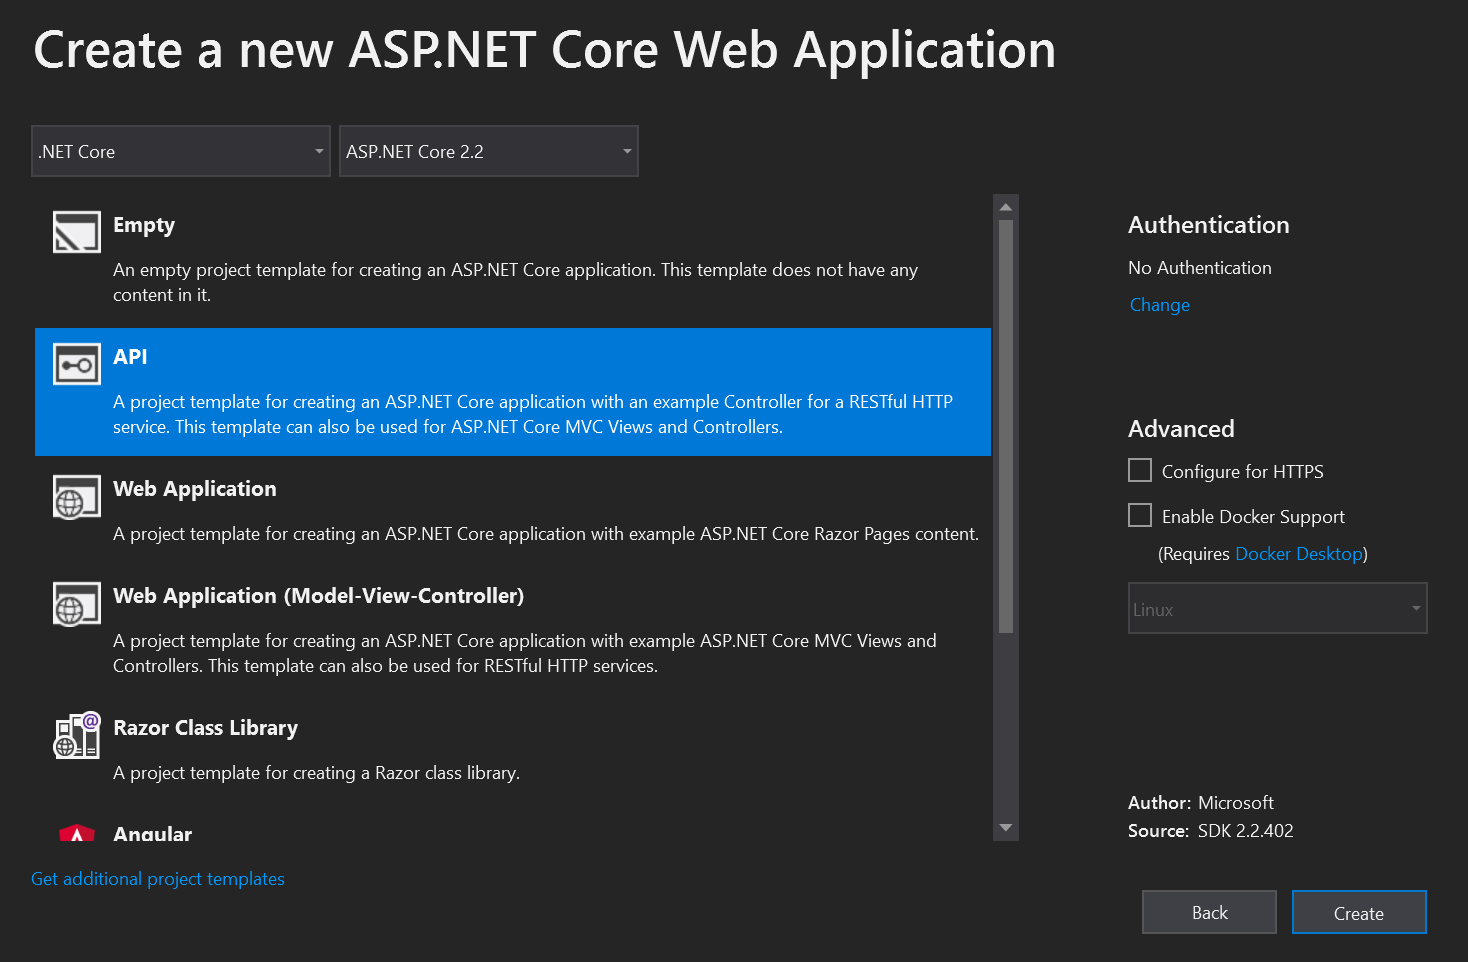
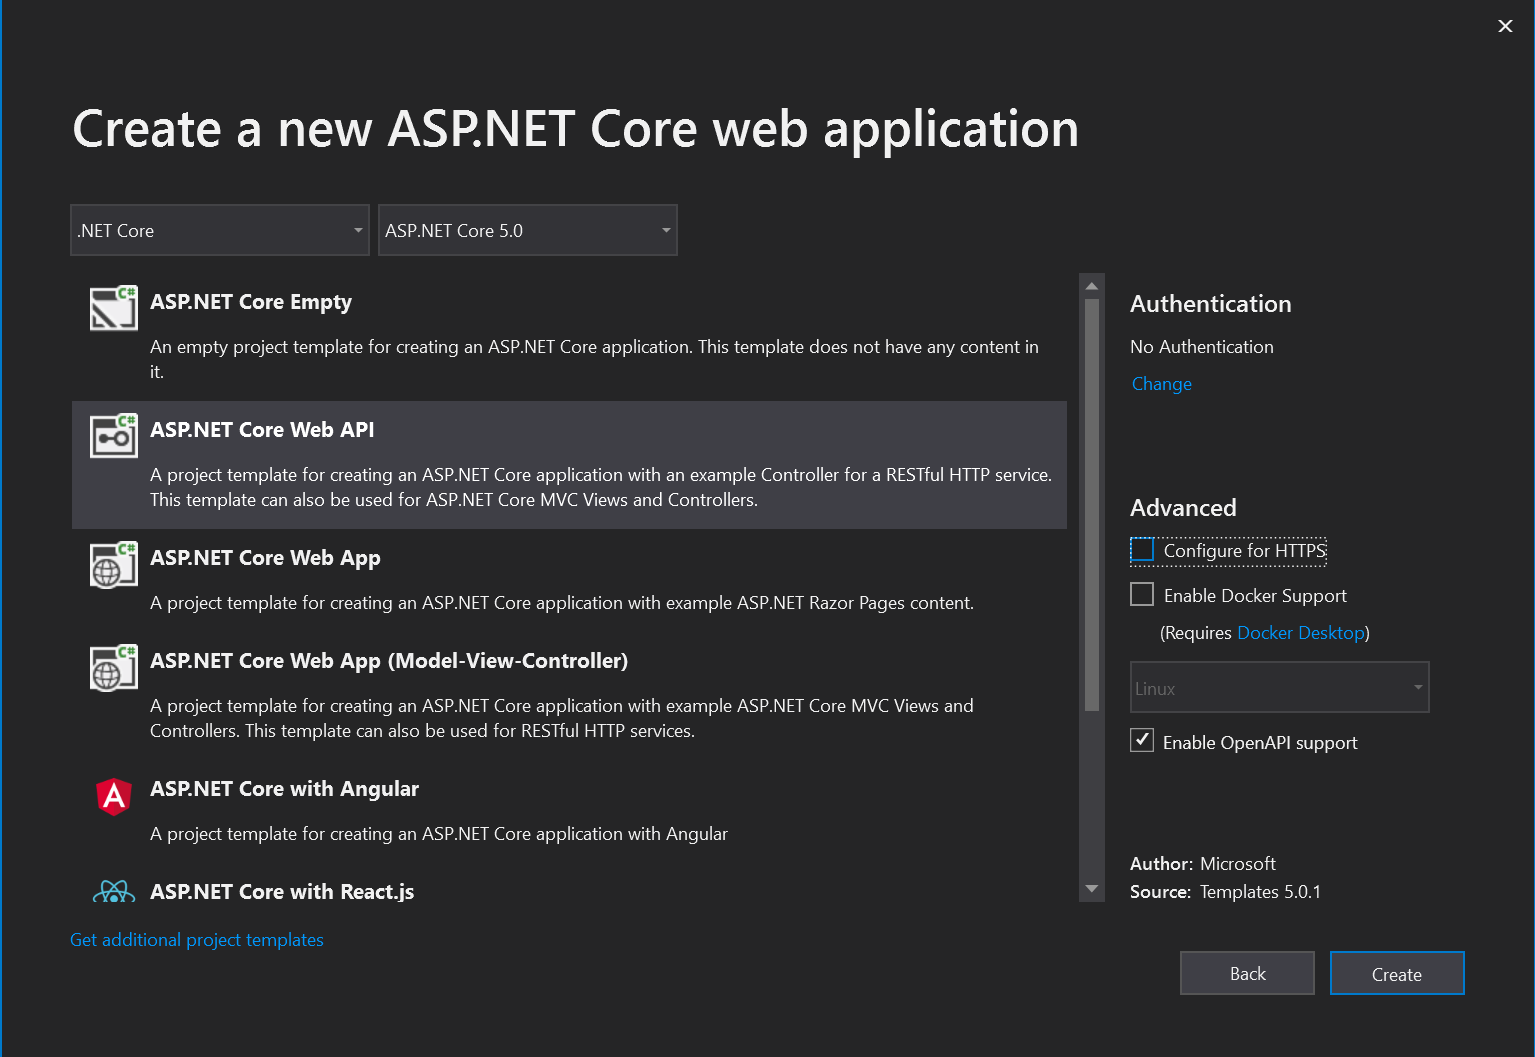
update quick start to mention .NET 5

Changed region(s): [[0.0, 0.0312, 0.9809, 0.9979]]

diff --git a/docs/quick/overview.md b/docs/quick/overview.md
@@ -30,35 +30,31 @@ Here are some good starting points for learning more about GraphQL or ASP.NET MV
 
 [**Comparing GraphQL and REST**](https://blog.apollographql.com/graphql-vs-rest-5d425123e34b) - A helpful comparison by the Apollo Team
 
-[**Getting started with ASP.NET Core MVC**](https://docs.microsoft.com/en-us/aspnet/core/tutorials/first-mvc-app/start-mvc?view=aspnetcore-3.0&tabs=visual-studio) - Scaffolding a ASP.NET Core MVC app from the ground up.
+[**Getting started with ASP.NET Core MVC**](https://docs.microsoft.com/en-us/aspnet/core/tutorials/first-mvc-app/start-mvc?view=aspnetcore-5.0&tabs=visual-studio) - Scaffolding a .NET ASP.NET Core MVC app from the ground up.
 
 ## Key Terms
 
 This documentation uses a number of terms to refer to the various pieces of the library:
 
 ### Schema
-This is the collective set of fields their data types, input arguments etc. that are exposed on an object graph. When you write a graphql query to return data the fields you request, their arguments and their children must all be defined on a schema that graphql will validate your query against.  
+This is the set of data types, their fields, input arguments etc. that are exposed on an object graph. When you write a graphql query to return data the fields you request, their arguments and their children must all be defined on a schema that graphql will validate your query against.  
 
-> In GraphQL ASP.NET the schema is a virtual entity created from your C# code.
+> In GraphQL ASP.NET the schema is generated at runtime directly from your C# code, there is no boilerplate code necessary to define up a schema.
 
 Your schema is "generated" at runtime by analyzing your model classes, controllers and action methods then populating a `GraphSchema` container with the appropriate graph types to map graphql requests to your controllers. 
 
-### Field Resolver 
-In GraphQL terms, a field resolver fulfills the request for data from a schema field. It takes in a set of input arguments and produces a piece of data that is returned to the client. In GraphQL ASP.NET your controller methods are, by in large, your field resolvers.
-
-**_AKA_**: `Action Method`, `Controller Method`
+### Fields & Resolvers
+In GraphQL terms, a field is any requested piece of data (such as an id or  name).  A resolver fulfills the request for data from a schema field. It takes in a set of input arguments and produces a piece of data that is returned to the client. In GraphQL ASP.NET your controller methods act as resolvers for top level fields in any query.
 
 ### Graph Type
 
 A graph type is an entity on your object graph; a droid, a donut, a string, a number etc.  In GraphQL ASP.NET your model classes, interfaces, enums, controllers etc. are compiled into the various graph types required by the runtime.
 
-#### Root Graph Type
-There are three root graph types in GraphQL: Query, Mutation, Subscription. Whenever you make a graphql request, you always specify which query root you are targeting. This documentation will usually refer to all operations as "queries" but this includes mutations as well.
-
-**_AKA_**:  `root operation`, `operation type`
+#### Root Graph Types
+There are three root graph types in GraphQL: Query, Mutation, Subscription. Whenever you make a graphql request, you always specify which query root you are targeting. This documentation will usually refer to all operations as "queries" but this includes mutations and subscriptions as well.
 
 ### Query Document
 This is the raw query string submitted by a client. When GraphQL accepts a query it is converted from a string to an internal document format that is parsed and used to fulfill the request.  
 
-**_AKA_**  `query text`, `query string`.
+> Queries, Mutations and Subscriptions are all types of query documents.
 

diff --git a/docs/quick/quick-start.md b/docs/quick/quick-start.md
@@ -11,9 +11,9 @@ This guide will help you get a GraphQL project up and running so you can start e
 3.  Write some code to create a `Person` model object and a `PersonController` to deliver it.
 4.  Register GraphQL ASP.NET in `Startup.cs`.
 
-This guide uses [Visual Studio 2019](https://visualstudio.microsoft.com/) but the steps are similar for other IDEs, including JetBrains [Rider](https://www.jetbrains.com/rider/).
+This guide uses [Visual Studio 2019](https://visualstudio.microsoft.com/) but the steps are similar for other IDEs, including [JetBrains Rider](https://www.jetbrains.com/rider/).
 
-The goal is to be able to open any GraphQL query tool such as [GraphiQL](https://electronjs.org/apps/graphiql) or [Altair](https://altair.sirmuel.design/), point it at our server and execute this query:
+The goal is to be able to open any GraphQL query tool such as [GraphiQL](https://electronjs.org/apps/graphiql), [Altair](https://altair.sirmuel.design/) or [GraphQL Playground](https://github.com/graphql/graphql-playground), point it at our server and execute this query:
 
 ```javascript
 query {
@@ -50,8 +50,9 @@ From the Visual Studio 2019 start screen:
 1. Choose `Create new Project`
 2. Select `ASP.NET Core Web Application`.
     - Enter your project's name and choose a location.
-3. Choose `API` when prompted to select a project type.
+3. Choose `ASP.NET Core Web API` when prompted to select a project type.
     - GraphQL ASP.NET has no view layer so we can forgo including Razor and other related options.
+    - Here we've chosen .NET 5 as our target, however; GraphQL ASP.NET is a `netstandard 2.0` library and will work with .NET Core 3.1 and 2.1 as well as .NET 4.7+.
 
 ![Create an API Project](assets/quick-start-1-choose-api.png)
 
@@ -118,7 +119,7 @@ namespace GraphQLDemo
 
 In an MVC controller, we'd generate a data object and pass it off to our Razor View for rendering. In GraphQL, we return the object back to GraphQL and let it handle which properties to render to the requestor based on their query.
 
-For an REST endpoint we'd use `[Route("person")]`, `[HttpGet("person")]` or similar attributes to specify the url template and HTTP verb for our action. In GraphQL, we have to specify if the action is a `[Query]` or a `[Mutation]` operation. Here we've chosen to use the special`[QueryRoot]` attribute to indicate that the action is both a query and exists at the top most level of our object graph. See the section on [declaring field paths](../controllers/field-paths) for a complete set of options and recommendations.
+For a REST endpoint we'd use `[Route("person")]`, `[HttpGet("person")]` or similar attributes to specify the url template and HTTP verb for our action. In GraphQL, we have to specify if the action is a `[Query]` or a `[Mutation]` operation. Here we've chosen to use the special`[QueryRoot]` attribute to indicate that the action is both a query and exists at the top most level of our object graph. See the section on [declaring field paths](../controllers/field-paths) for a complete set of options and recommendations.
 
 ## Step 4: Startup.cs
 

diff --git a/docs/controllers/actions.md b/docs/controllers/actions.md
@@ -63,7 +63,7 @@ query {
 </div>
 <br/>
 
-In the above example, it makes sense these these methods would exist on different controllers, `HeroController` and `DroidController`. Unlike with a REST API request, which will usually invokes one action method and returns the data generated, GraphQL will automatically invoke every action method requested and aggregate the results. Each action is executed asynchronously and in isolation**\***. If one fails, the other may not and the results of both the errors generated and the data retrieved would be returned.
+In the above example, it makes sense these these methods would exist on different controllers, `HeroController` and `DroidController`. Unlike with a REST API request, which will usually invokes one action method and returns the data generated, GraphQL will automatically invoke every action method requested and aggregates the results. Each action is executed asynchronously and in isolation**\***. If one fails, the other may not and the results of both the errors generated and the data retrieved would be returned.
 
 The data returned by your action methods then return their requested child fields, those data items to their children and so on. In many cases this is just a selection of the appropriate properties on a model object, but more complex scenarios involving child objects, [type extensions](./type-extensions) or directly executing POCO methods can also occur.
 
@@ -87,9 +87,9 @@ See below for more detail of the [input](./actions#method-parameters) and [retur
 
 ## Declaring An Operation Type
 
-`GraphQL.AspNet.Attributes.QueryAttribute`  
-`GraphQL.AspNet.Attributes.QueryRootAttribute`  
-`GraphQL.AspNet.Attributes.MutationAttribute`  
+`GraphQL.AspNet.Attributes.QueryAttribute`
+`GraphQL.AspNet.Attributes.QueryRootAttribute`
+`GraphQL.AspNet.Attributes.MutationAttribute`
 `GraphQL.AspNet.Attributes.MutationRootAttribute`
 
 These four attributes are used to declare your action methods. Usage of the mutation and query attributes are exactly the same, they differ only in which of the root graph types to place a field reference. Lets look at the most common ways to use them:
@@ -344,7 +344,7 @@ public interface IGraphActionResult
 }
 ```
 
-It accepts the raw field resolution context that you can manipulate as needed. Combine this with any data you supply to your action result when you instantiate it and you have the ability to generate any response type with any data value or any number and type of error messages etc.  
+It accepts the raw field resolution context that you can manipulate as needed. Combine this with any data you supply to your action result when you instantiate it and you have the ability to generate any response type with any data value or any number and type of error messages etc.
 
 ## Method Parameters
 

diff --git a/docs/introduction/what-is-graphql.md b/docs/introduction/what-is-graphql.md
@@ -72,4 +72,4 @@ _`"Can we add one more thing?"`_
 
 Have you ever heard that in a stand-up meeting? Lets say your team is building a website to show a list of all the members of the rebel alliance. The original specs of a REST end point calls for the return of an object in the above example. Then, for the 2nd time this week, the product owner decided to make a change. "Hey, lets add everybody's direct manager's name to their employee card!", Karen said. The project manager sighs audibly, Dave rolls his eyes and now you have to make a code change to return the new field from the endpoint.
 
-With GraphQL the **requestor**, that is the front-end engineer, adds the new field to their query and the data is automatically returned. Since they have to update the UI they are going to be impacted anyways so no additional harm done. From the back-end though, using GraphQL means there is no need for a server update; no change request, additional QA, no PR approvals and most importantly no new deployment. Server-side code tends to be scrutinized a lot more than client-side code and for good reason. The fewer changes we have to make to a production server the better! This is, of course, dependent on how you design your object graph but with a little forward thinking you can greatly minimize the required server changes once you setup your schema.
+With GraphQL the **requestor**, that is the client application, adds the new field to their query and the data is automatically returned. Since they have to update the UI they are going to be impacted anyways so no additional harm done. From the back-end though, using GraphQL means there is no need for a server update; no change request, additional QA, no PR approvals and most importantly no new deployment. Server-side code tends to be scrutinized a lot more than client-side code and for good reason. The fewer changes we have to make to a production server the better! This is, of course, dependent on how you design your object graph but with a little forward thinking you can greatly minimize the required server changes once you setup your schema.

diff --git a/docs/reference/how-it-works.md b/docs/reference/how-it-works.md
@@ -228,6 +228,7 @@ Hopefully we've given you a bit of insight into how the library works under the 
 
     -   Inject your own `IGraphResponseWriter` to serialize your results to XML or CSV.
     -   Build your own `IOperationComplexityCalculator` to intercept and alter how a query plan generates its [complexity values](../execution/malicious-queries) to be more suitable to your needs.
+    -   On and on and on...
 
 ## Architectural Diagrams
 
